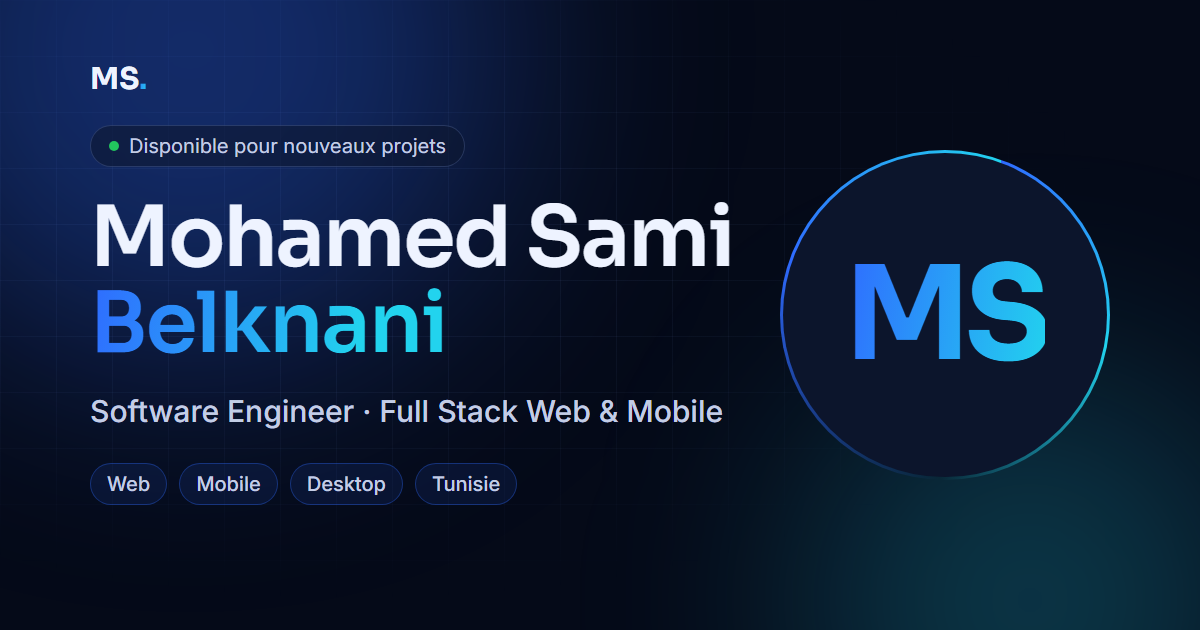
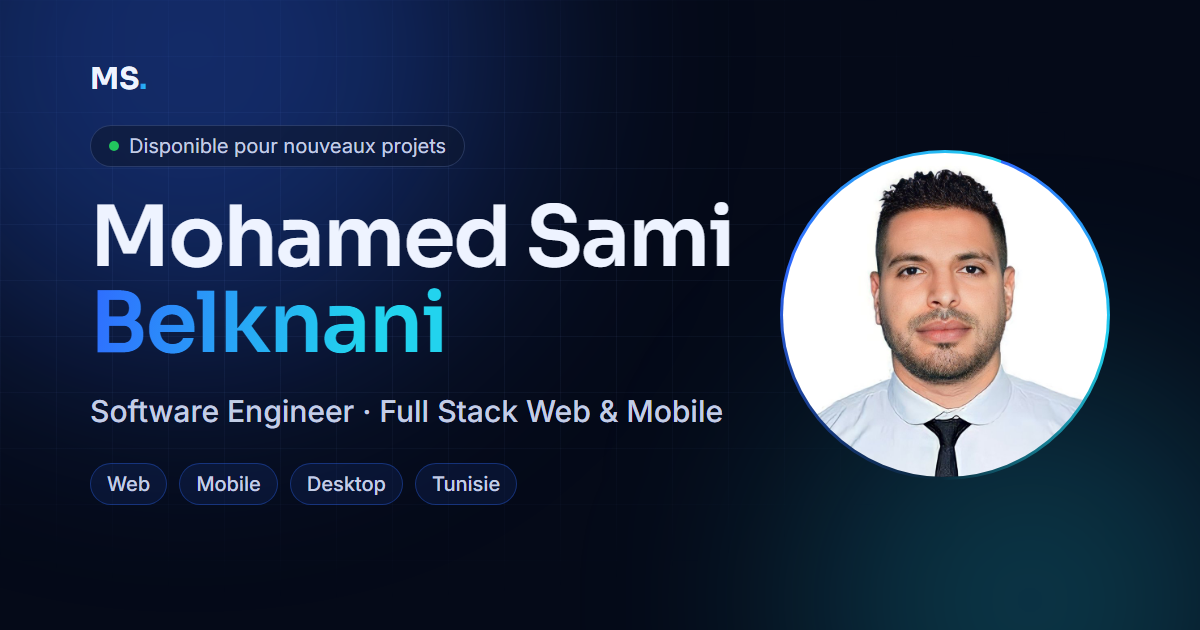
Photo de profil dans l'accueil, l'image d'aperçu et les données structurées

Changed region(s): [[0.6475, 0.2413, 0.925, 0.754]]

diff --git a/src/config/profile.ts b/src/config/profile.ts
@@ -25,7 +25,7 @@ export const profile = {
    * Photo de profil : déposez votre photo dans le dossier public/ (ex. public/profile.jpg, format carré, 800 px)
    * puis indiquez son chemin ici : photo: '/profile.jpg'. Laissez vide pour afficher le monogramme.
    */
-  photo: '',
+  photo: '/profile.jpg',
 
   email: 'samikneni89@gmail.com',
   /** Numéros au format international, sans espaces (utilisés pour les liens tel:). */

diff --git a/index.html b/index.html
@@ -37,6 +37,7 @@
         "@type": "Person",
         "name": "Mohamed Sami Belknani",
         "url": "https://samibelknani.github.io/",
+        "image": "https://samibelknani.github.io/profile.jpg",
         "alternateName": "محمد سامي بالكناني",
         "sameAs": ["https://www.linkedin.com/in/mohamed-sami-belknani"],
         "jobTitle": "Software Engineer · Full Stack Web & Mobile Developer",
